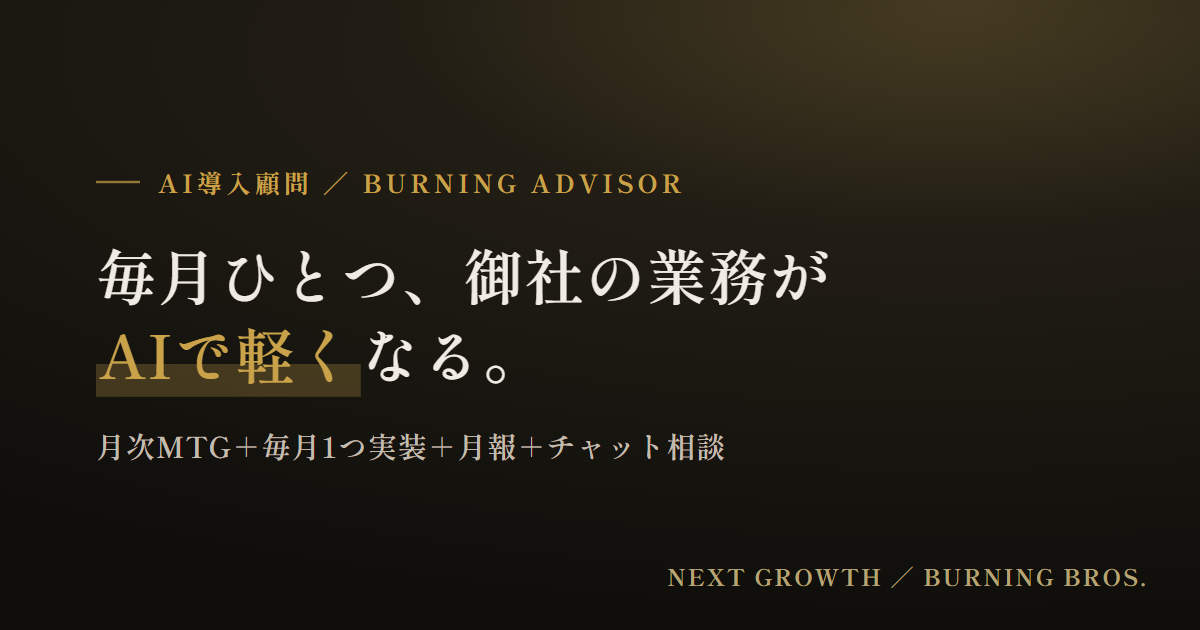
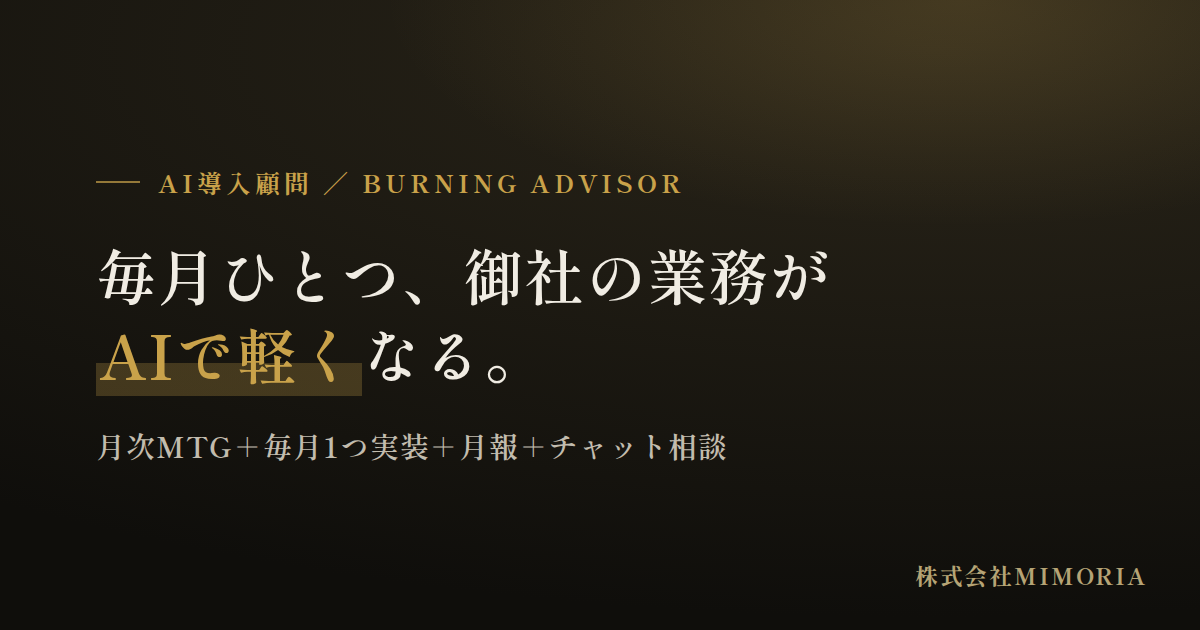
og画像のブランド表記を株式会社MIMORIAに再生成（テンプレートのブランド行を差し替え）

diff --git a/og-template.html b/og-template.html
@@ -23,5 +23,5 @@
   <div class="eyebrow">AI導入顧問 ／ BURNING ADVISOR</div>
   <h1><span class="ph">毎月ひとつ、御社の業務が</span><br><span class="ph"><span class="hl">AIで軽く</span>なる。</span></h1>
   <div class="sub">月次MTG＋毎月1つ実装＋月報＋チャット相談</div>
-  <div class="brand">NEXT GROWTH ／ BURNING BROS.</div>
+  <div class="brand">株式会社MIMORIA</div>
 </div></body></html>
